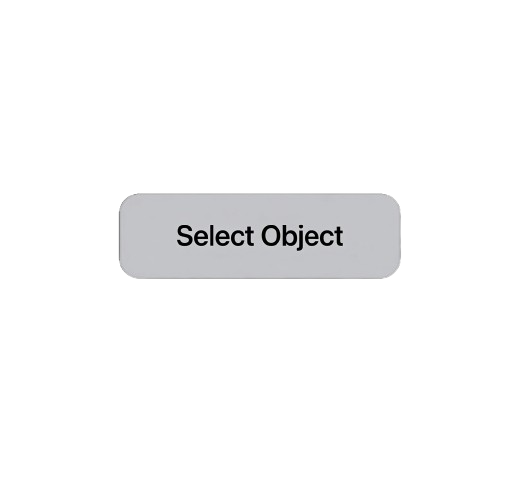
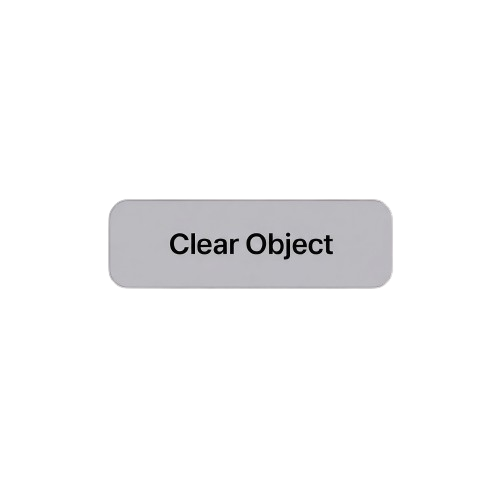
So close to hating numbers

diff --git a/main.py b/main.py
@@ -40,21 +40,23 @@ clock = pygame.time.Clock()
 
 # Creates variables to be used throughout
 data = {"show_control":True,
-        "show_body" : False,
+        "show_body":False,
         "flow":False,
         "show_field":True,
         "show_streamline":False,
         "field_rows":16,
         "frame_rate":0.0,
-        "dt": 0,
+        "dt":0,
+        "body_index":0,
+        "clear_body":False,
         "show_custom":False,
             "scenario":"tunnel",
-            "q": "",
+            "q":"",
             "speed":1.0,
-            "kinetic_energy": 0.0,
-            "force": 0.0,
-            "circulation" : 0.0,
-            "flux" : 0.0}
+            "kinetic_energy":0.0,
+            "force":0.0,
+            "circulation":0.0,
+            "flux":0.0}
 
 # Instantiates control panel components
 control_panel_box = ui.Box(screen, SCREEN_WIDTH-175, SCREEN_HEIGHT/2, 350, SCREEN_HEIGHT, ui_bg)
@@ -101,15 +103,16 @@ control_interactable = (speed_entry, show_grid_doublecheckbox, field_rows_increm
 
 # Instantiates body selection components:
 back_from_body_button = ui.Image_Boolean_Button(screen, SCREEN_WIDTH-320, 30, "show_control", "images\\ui\\back_from_body.png", (0.2, 0.2))
+clear_body_button = ui.Image_Boolean_Button(screen, SCREEN_WIDTH-100, 40, "clear_body","images\\ui\\clear_body.png", (0.6, 0.6) )
 
-body_select_1 = ui.BodySelectionButton(screen, SCREEN_WIDTH-200, 100, 1, (0.2, 0.2))
+body_select_1 = ui.BodySelectionButton(screen, SCREEN_WIDTH-250, 150, 1, (0.2, 0.2))
+body_select_2 = ui.BodySelectionButton(screen, SCREEN_WIDTH-95, 150, 2, (0.3, 0.3) )
+body_select_3 = ui.BodySelectionButton(screen, SCREEN_WIDTH-250, 300, 3, (0.3, 0.3))
+#body_select_4 = ui.BodySelectionButton(screen, SCREEN_WIDTH-95, 300, 4, (0.2, 0.2))
 
 
-
-
-
-body_objects = (back_from_body_button, body_select_1)
-body_interactable = (back_from_body_button,)
+body_objects = (back_from_body_button, body_select_1, body_select_2, body_select_3, clear_body_button)
+body_interactable = (back_from_body_button, body_select_1, body_select_2, body_select_3, clear_body_button)
 
 
 
@@ -157,8 +160,8 @@ while running:
         if data["show_body"]:
             for obj in body_interactable:
                 obj.checkInteract(event)
-                if tapping(event) or (typing(event) and event.unicode == "\x0D"):
-                        data[obj.getVariable()] = obj.getValue()  
+                if tapping(event):
+                    data[obj.getVariable()] = obj.getValue()  
 
 
         if data["show_control"]:
@@ -169,15 +172,18 @@ while running:
                     if data["scenario"] != "custom":
                         vector_field.updateVelocityFunction(getVelocityFunction(data["scenario"])[1:])
 
+
             # Checks interaction with bespoke objects 
             if data["scenario"] == "custom":
                 custom_vf_entry.checkInteract(event)
                 if tapping(event) or (typing(event) and event.unicode == "\x0D"):
                     data[custom_vf_entry.getVariable()] = custom_vf_entry.getValue()
+
                     # Updates the velocity function
                     if validVelocityFunction(data["q"]):
                         if not getVelocityFunction(data["q"]):
                             saveVelocityFunction(data["q"])
+
                         vector_field.updateVelocityFunction(getVelocityFunction(data["q"])[1:])
             
                             
@@ -219,6 +225,13 @@ while running:
     # Places object addition objects
     if data["show_body"]:
         data["show_control"] = False
+
+        # Checks if the tank needs clearing of a body
+        if data["clear_body"]:
+            data["body_index"] = 0
+            data["clear_body"] = False
+
+
         control_panel_box.place()
         for obj in body_objects:
             obj.place()
@@ -230,6 +243,8 @@ while running:
     # Keeps loop in time with the clock
     data["frame_rate"] = clock.get_fps()
     data["dt"] = clock.tick(FRAME_RATE) / 1000  
+
+    print(data)
 
     
 pygame.quit()

diff --git a/interface.py b/interface.py
@@ -404,30 +404,25 @@ class Dual_Image_Boolean_Button(Input):
 
 
 class BodySelectionButton(Input):
+    __variable = "body_index"
     def __init__(self, window, x : int, y : int, index : int, image_scale_factor : Tuple[int, int]):
         """Creates bespoke button to be placed on screen"""
         self.__window = window
-        self.index = index
-        
+
+        self.__index = index
         properties = getBodyProperties(index)
-        
-        self.__name = properties[0]
+        self.__value = 0
+
+
+        self.__name = properties[0][0].upper() + properties[0][1:]
         self.__path = properties[1]
-        self.__mass = properties[3]
-
-        self.__fixed = False
-        if properties[2] == 1:
-            self.__fixed = True
-
-
+      
         self.__rect = pygame.rect.Rect(0,0, 150, 100)
-        
-        
+          
         self.__image = pygame.transform.scale_by(pygame.image.load(self.__path).convert_alpha(), image_scale_factor)
         self.__image_rect = self.__image.get_rect()
         self.__image_rect.center = self.__rect.center = (x,y)
 
-        
         self.__font = pygame.font.SysFont("consolas", 20)
         self.__text_rect = self.__font.render(self.__name, True, "#000000", "#FFFFFF").get_rect()
     
@@ -445,6 +440,19 @@ class BodySelectionButton(Input):
         pygame.draw.rect(self.__window, "#FFFFFF", self.__text_box_rect)
         pygame.draw.rect(self.__window, "#000000", self.__text_box_rect, 1)
         self.__window.blit(self.__font.render(self.__name, True, "#000000", "#FFFFFF"), self.__text_rect)
+
+    def checkInteract(self, event : pygame.event.Event):
+        if tapping(event):
+            if self.__rect.collidepoint(*pygame.mouse.get_pos()[:2]):
+                self.__value = self.__index
+
+    def getVariable(self):
+        return self.__variable
+    
+    def getValue(self):
+        value = self.__value
+        self.__value = 0
+        return value
 
 
 

diff --git a/algorithms.py b/algorithms.py
@@ -162,7 +162,10 @@ def initialiseBodyTable():
         fixed INTEGER,
         mass REAL);
         
-        INSERT or IGNORE INTO body VALUES (1, "circle", "images\\body\\circle.png", 0, "10")""")
+        INSERT or IGNORE INTO body VALUES (1, "circle", "images\\body\\circle.png", 0, 10.0);
+        INSERT or IGNORE INTO body VALUES (2, "square", "images\\body\\square.png", 0, 10.0);
+        INSERT or IGNORE INTO body VALUES (3, "airfoil", "images\\body\\airfoil.png", 1, 0.0);
+        INSERT or IGNORE INTO body VALUES (4, "f1 car", "images\\body\\car.png", 1, 0.0);""")
         conn.commit()
 
 def getBodyProperties(index : int):
